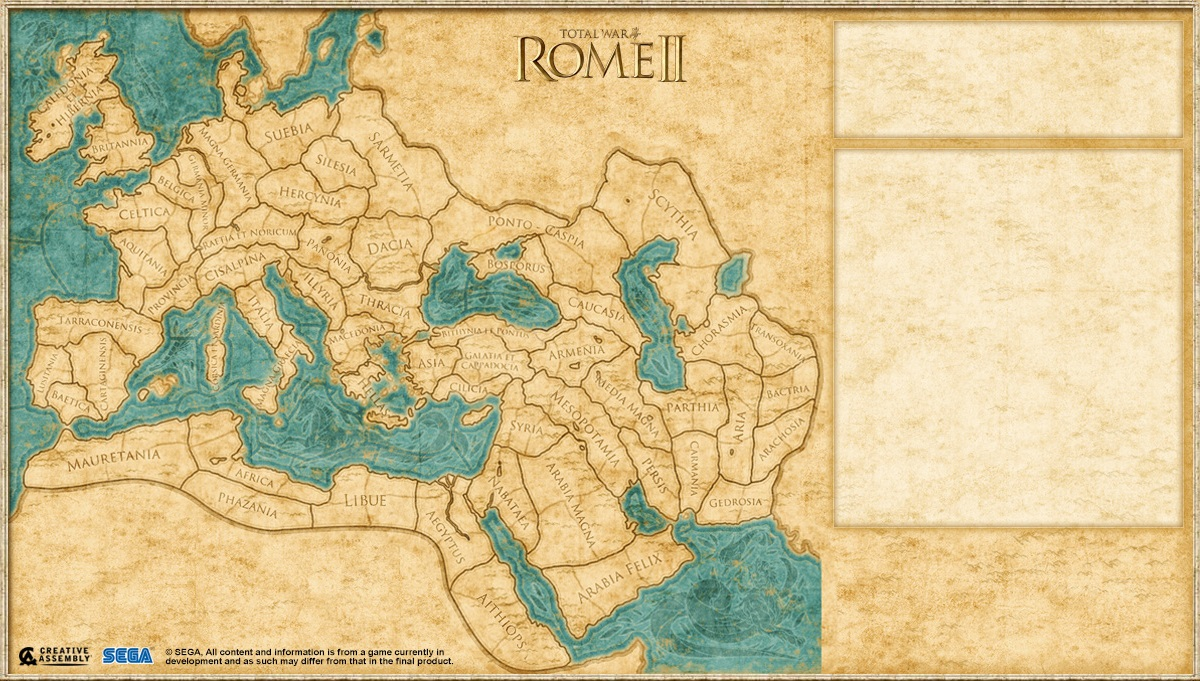
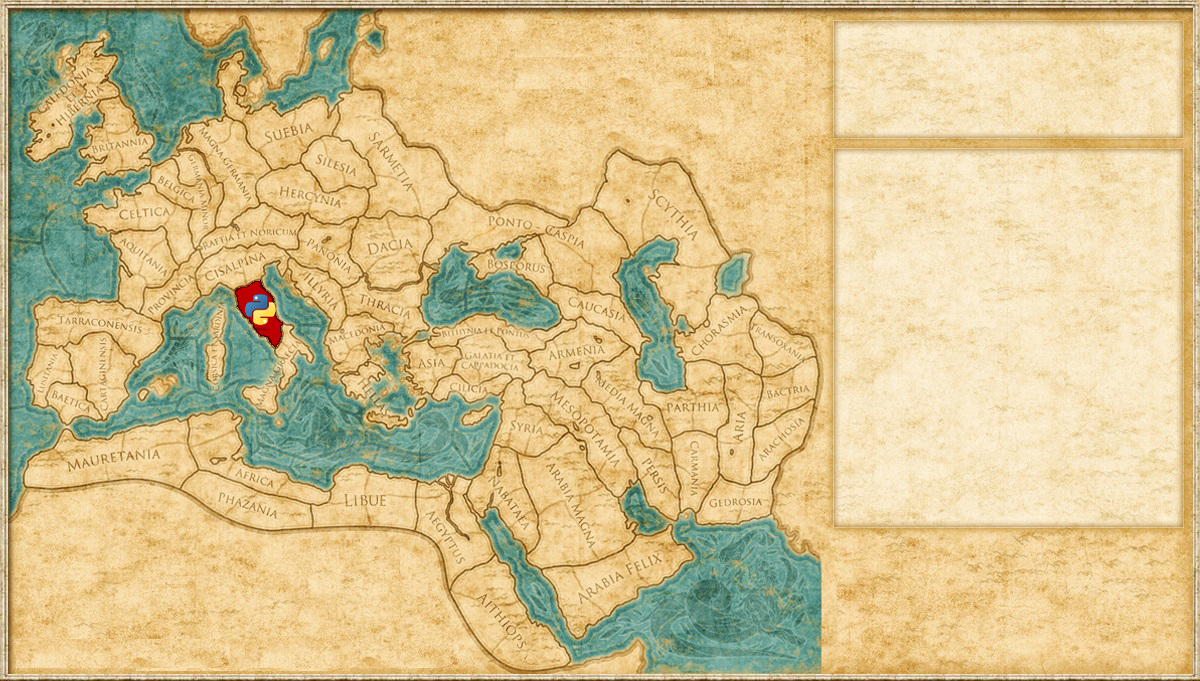
Resume v0.252
Added coloring

Changed region(s): [[0.0, 0.9251, 0.4008, 0.9868], [0.4008, 0.0308, 0.6167, 0.1542], [0.185, 0.4009, 0.2467, 0.5242]]

diff --git a/index.html b/index.html
@@ -58,7 +58,7 @@
 
 				<div class="contentText"></div>
 			<p>(This is a website in progress.)</p>
-			<img src="Rome_2java.jpg">
+			<img src="Rome_2.jpg">
 		</div>
 </body>
 
